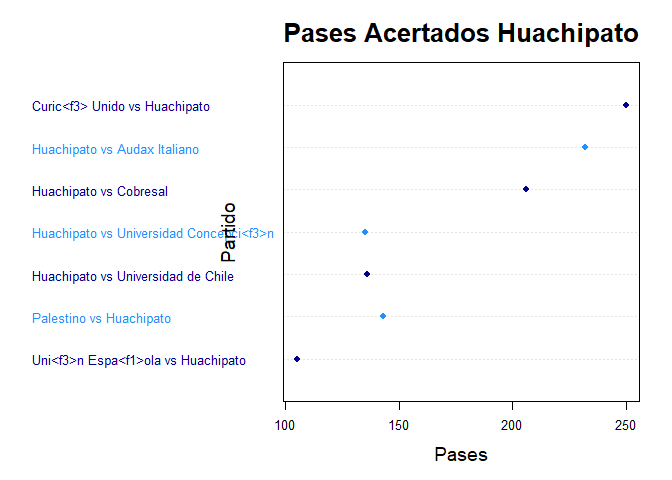
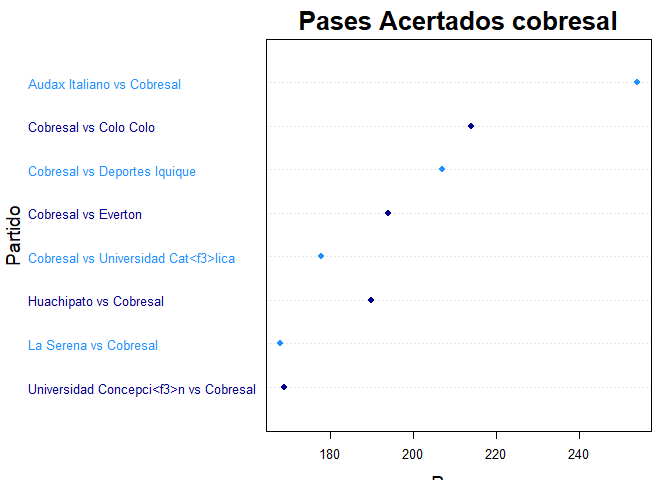
actividad 2 ready

diff --git a/Actividad_A2/dummy.md b/Actividad_A2/dummy.md
@@ -1,7 +1,7 @@
 Ayudantia 2
 ================
 
-## Actividad Ayudantia 2: Javiera Bustos
+## Actividad Ayudantia 2
 
 Replicar lo realizado en la ayudantia (analisis exploratorio de los
 datos, limpieza, sub dataframes, filtro y graficar ), pueden elegir otro
@@ -13,15 +13,18 @@ equipo para que puedan explorar otros datos
 library(quanteda)
 ```
 
-    ## Warning: package 'quanteda' was built under R version 4.0.5
+    ## Package version: 2.1.2
 
-    ## Package version: 3.0.0
-    ## Unicode version: 10.0
-    ## ICU version: 61.1
-
-    ## Parallel computing: 4 of 4 threads used.
+    ## Parallel computing: 2 of 4 threads used.
 
     ## See https://quanteda.io for tutorials and examples.
+
+    ## 
+    ## Attaching package: 'quanteda'
+
+    ## The following object is masked from 'package:utils':
+    ## 
+    ##     View
 
 ``` r
 library(dplyr)
@@ -42,14 +45,14 @@ library(dplyr)
 library(tidyverse)
 ```
 
-    ## -- Attaching packages --------------------------------------- tidyverse 1.3.0 --
+    ## -- Attaching packages ------------------------------------------------------------------------------------------------- tidyverse 1.3.0 --
 
-    ## v ggplot2 3.3.3     v purrr   0.3.4
-    ## v tibble  3.1.0     v stringr 1.4.0
-    ## v tidyr   1.1.3     v forcats 0.5.1
-    ## v readr   1.4.0
+    ## v ggplot2 3.3.0     v purrr   0.3.3
+    ## v tibble  3.0.0     v stringr 1.4.0
+    ## v tidyr   1.0.2     v forcats 0.5.0
+    ## v readr   1.3.1
 
-    ## -- Conflicts ------------------------------------------ tidyverse_conflicts() --
+    ## -- Conflicts ---------------------------------------------------------------------------------------------------- tidyverse_conflicts() --
     ## x dplyr::filter() masks stats::filter()
     ## x dplyr::lag()    masks stats::lag()
 
@@ -57,12 +60,11 @@ library(tidyverse)
 library(utf8)
 library(ggplot2)
 
-setwd("C:/Users/Javiera/Desktop/RAMOS 2021/Minería/proyectos_mineria/Actividad_A2")
+setwd("D:/Users/Italo/Documents/Italo Felipe/UAI/Semestre 11/Ayudantia Mineria de Datos/Ayudantia_DataMining01_2021/Ayudantia 2")
 primer_tiempo2020 <- read_csv("Primer_Tiempo2020.csv", col_names = TRUE)
 ```
 
-    ## 
-    ## -- Column specification --------------------------------------------------------
+    ## Parsed with column specification:
     ## cols(
     ##   .default = col_double(),
     ##   torneo = col_character(),
@@ -73,9 +75,12 @@ primer_tiempo2020 <- read_csv("Primer_Tiempo2020.csv", col_names = TRUE)
     ##   local = col_logical(),
     ##   tiempo = col_character()
     ## )
-    ## i Use `spec()` for the full column specifications.
+
+    ## See spec(...) for full column specifications.
 
 ``` r
+#str(primer_tiempo2020)
+#attach(primer_tiempo2020)
 summary(primer_tiempo2020)
 ```
 
@@ -178,18 +183,18 @@ primer_tiempo2020
 ```
 
     ## # A tibble: 130 x 49
-    ##    torneo   equipo   id_partido  partido   fasepartido local tiempo accuratePass
-    ##    <chr>    <chr>    <chr>       <chr>     <chr>       <lgl> <chr>         <dbl>
-    ##  1 Primera~ Uni<f3>~ 6xszsf73jq~ Universi~ Regular Se~ FALSE fh              235
-    ##  2 Primera~ Univers~ 6xszsf73jq~ Universi~ Regular Se~ TRUE  fh              199
-    ##  3 Primera~ Everton  e88gat05jr~ Universi~ Regular Se~ FALSE fh              157
-    ##  4 Primera~ Univers~ e88gat05jr~ Universi~ Regular Se~ TRUE  fh              192
-    ##  5 Primera~ Curic<f~ 35ijq76er8~ Universi~ Regular Se~ FALSE fh              142
-    ##  6 Primera~ Univers~ 35ijq76er8~ Universi~ Regular Se~ TRUE  fh              168
-    ##  7 Primera~ Coquimb~ 9o9ji2f68p~ Universi~ Regular Se~ FALSE fh              190
-    ##  8 Primera~ Univers~ 9o9ji2f68p~ Universi~ Regular Se~ TRUE  fh              200
-    ##  9 Primera~ Santiag~ 357wqv3701~ Universi~ Regular Se~ FALSE fh              156
-    ## 10 Primera~ Univers~ 357wqv3701~ Universi~ Regular Se~ TRUE  fh               92
+    ##    torneo equipo id_partido partido fasepartido local tiempo accuratePass
+    ##    <chr>  <chr>  <chr>      <chr>   <chr>       <lgl> <chr>         <dbl>
+    ##  1 Prime~ Uni<f~ 6xszsf73j~ Univer~ Regular Se~ FALSE fh              235
+    ##  2 Prime~ Unive~ 6xszsf73j~ Univer~ Regular Se~ TRUE  fh              199
+    ##  3 Prime~ Evert~ e88gat05j~ Univer~ Regular Se~ FALSE fh              157
+    ##  4 Prime~ Unive~ e88gat05j~ Univer~ Regular Se~ TRUE  fh              192
+    ##  5 Prime~ Curic~ 35ijq76er~ Univer~ Regular Se~ FALSE fh              142
+    ##  6 Prime~ Unive~ 35ijq76er~ Univer~ Regular Se~ TRUE  fh              168
+    ##  7 Prime~ Coqui~ 9o9ji2f68~ Univer~ Regular Se~ FALSE fh              190
+    ##  8 Prime~ Unive~ 9o9ji2f68~ Univer~ Regular Se~ TRUE  fh              200
+    ##  9 Prime~ Santi~ 357wqv370~ Univer~ Regular Se~ FALSE fh              156
+    ## 10 Prime~ Unive~ 357wqv370~ Univer~ Regular Se~ TRUE  fh               92
     ## # ... with 120 more rows, and 41 more variables: wonTackle <dbl>,
     ## #   lostCorners <dbl>, goalsConceded <dbl>, saves <dbl>,
     ## #   ontargetScoringAtt <dbl>, totalScoringAtt <dbl>, subsMade <dbl>,
@@ -211,18 +216,18 @@ primer_tiempo2020
 ```
 
     ## # A tibble: 130 x 43
-    ##    equipo    partido      accuratePass wonTackle lostCorners goalsConceded saves
-    ##    <chr>     <chr>               <dbl>     <dbl>       <dbl>         <dbl> <dbl>
-    ##  1 Uni<f3>n~ Universidad~          235         2           3             1     4
-    ##  2 Universi~ Universidad~          199         2           0             0     1
-    ##  3 Everton   Universidad~          157         7           6             0     3
-    ##  4 Universi~ Universidad~          192         4           1             0     2
-    ##  5 Curic<f3~ Universidad~          142         6           3             2     2
-    ##  6 Universi~ Universidad~          168         8           1             1     2
-    ##  7 Coquimbo~ Universidad~          190         3           0             0     2
-    ##  8 Universi~ Universidad~          200         5           0             0     0
-    ##  9 Santiago~ Universidad~          156         4           3             0     0
-    ## 10 Universi~ Universidad~           92         4           1             1     1
+    ##    equipo partido accuratePass wonTackle lostCorners goalsConceded saves
+    ##    <chr>  <chr>          <dbl>     <dbl>       <dbl>         <dbl> <dbl>
+    ##  1 Uni<f~ Univer~          235         2           3             1     4
+    ##  2 Unive~ Univer~          199         2           0             0     1
+    ##  3 Evert~ Univer~          157         7           6             0     3
+    ##  4 Unive~ Univer~          192         4           1             0     2
+    ##  5 Curic~ Univer~          142         6           3             2     2
+    ##  6 Unive~ Univer~          168         8           1             1     2
+    ##  7 Coqui~ Univer~          190         3           0             0     2
+    ##  8 Unive~ Univer~          200         5           0             0     0
+    ##  9 Santi~ Univer~          156         4           3             0     0
+    ## 10 Unive~ Univer~           92         4           1             1     1
     ## # ... with 120 more rows, and 36 more variables: ontargetScoringAtt <dbl>,
     ## #   totalScoringAtt <dbl>, subsMade <dbl>, totalThrows <dbl>,
     ## #   totalYellowCard <dbl>, goalKicks <dbl>, totalPass <dbl>, fkFoulWon <dbl>,
@@ -244,18 +249,18 @@ fh2020
 ```
 
     ## # A tibble: 130 x 43
-    ##    equipo    partido      accuratePass wonTackle lostCorners goalsConceded saves
-    ##    <chr>     <chr>               <dbl>     <dbl>       <dbl>         <dbl> <dbl>
-    ##  1 Universi~ Universidad~          269         2           3             0     2
-    ##  2 Deportiv~ Deportivo A~          253        11           1             1     1
-    ##  3 Uni<f3>n~ Uni<f3>n La~          252         6           3             1     3
-    ##  4 Curic<f3~ Universidad~          245         5           2             0     2
-    ##  5 Uni<f3>n~ Uni<f3>n La~          237         5           2             0     0
-    ##  6 Uni<f3>n~ Universidad~          235         2           3             1     4
-    ##  7 Colo Colo Colo Colo v~          231         4           0             0     0
-    ##  8 Uni<f3>n~ Uni<f3>n Es~          224         7           0             1     0
-    ##  9 Audax It~ Audax Itali~          220         2           1             1     1
-    ## 10 Audax It~ Audax Itali~          219         6           1             0     0
+    ##    equipo partido accuratePass wonTackle lostCorners goalsConceded saves
+    ##    <chr>  <chr>          <dbl>     <dbl>       <dbl>         <dbl> <dbl>
+    ##  1 Unive~ Univer~          269         2           3             0     2
+    ##  2 Depor~ Deport~          253        11           1             1     1
+    ##  3 Uni<f~ Uni<f3~          252         6           3             1     3
+    ##  4 Curic~ Univer~          245         5           2             0     2
+    ##  5 Uni<f~ Uni<f3~          237         5           2             0     0
+    ##  6 Uni<f~ Univer~          235         2           3             1     4
+    ##  7 Colo ~ Colo C~          231         4           0             0     0
+    ##  8 Uni<f~ Uni<f3~          224         7           0             1     0
+    ##  9 Audax~ Audax ~          220         2           1             1     1
+    ## 10 Audax~ Audax ~          219         6           1             0     0
     ## # ... with 120 more rows, and 36 more variables: ontargetScoringAtt <dbl>,
     ## #   totalScoringAtt <dbl>, subsMade <dbl>, totalThrows <dbl>,
     ## #   totalYellowCard <dbl>, goalKicks <dbl>, totalPass <dbl>, fkFoulWon <dbl>,
@@ -302,88 +307,100 @@ fh2020_tiros
 ```
 
     ## # A tibble: 130 x 8
-    ##    equipo   partido      ontargetScoring~ totalScoringAtt blockedScoringA~ goals
-    ##    <chr>    <chr>                   <dbl>           <dbl>            <dbl> <dbl>
-    ##  1 Uni<f3>~ Uni<f3>n Es~                4               5                0     3
-    ##  2 Univers~ Universidad~                3               8                2     2
-    ##  3 Colo Co~ Colo Colo v~                4              10                2     2
-    ##  4 Audax I~ Audax Itali~                3               9                2     2
-    ##  5 Univers~ Deportivo A~                5               9                2     2
-    ##  6 Univers~ Universidad~                4               7                1     2
-    ##  7 Deporti~ Deportivo A~                5              14                4     2
-    ##  8 Uni<f3>~ O'Higgins v~                3               4                1     2
-    ##  9 Deporte~ Deportes Iq~                2               7                2     2
-    ## 10 La Sere~ La Serena v~                4               7                1     2
+    ##    equipo partido ontargetScoring~ totalScoringAtt blockedScoringA~ goals
+    ##    <chr>  <chr>              <dbl>           <dbl>            <dbl> <dbl>
+    ##  1 Uni<f~ Uni<f3~                4               5                0     3
+    ##  2 Unive~ Univer~                3               8                2     2
+    ##  3 Colo ~ Colo C~                4              10                2     2
+    ##  4 Audax~ Audax ~                3               9                2     2
+    ##  5 Unive~ Deport~                5               9                2     2
+    ##  6 Unive~ Univer~                4               7                1     2
+    ##  7 Depor~ Deport~                5              14                4     2
+    ##  8 Uni<f~ O'Higg~                3               4                1     2
+    ##  9 Depor~ Deport~                2               7                2     2
+    ## 10 La Se~ La Ser~                4               7                1     2
     ## # ... with 120 more rows, and 2 more variables: shotOffTarget <dbl>,
     ## #   precision_tiros <dbl>
 
 ## Filtrar Datos
 
 ``` r
-cobresal <- filter(primer_tiempo2020, equipo == "Cobresal")
-cobresal_tiros <- filter(fh2020_tiros, equipo == "Cobresal")
-cobresal_pases <- filter(fh2020_pases, equipo == "Cobresal")
+huachipato <- filter(primer_tiempo2020, equipo == "Huachipato")
+huachipato_tiros <- filter(fh2020_tiros, equipo == "Huachipato")
+huachipato_pases <- filter(fh2020_pases, equipo == "Huachipato")
 ```
 
 ## Agregar Promedio/Suma Total/Min/…
 
 ``` r
-cobresal_pases <- cobresal_pases[,!(colnames(cobresal_pases) %in% c("equipo"))] 
+huachipato_pases <- huachipato_pases[,!(colnames(huachipato_pases) %in% c("equipo"))] 
 
-Promedios_Pas <- c("Promedio Pases",mean(cobresal_pases$accuratePass),mean(cobresal_pases$totalPass),mean(cobresal_pases$precision_pases))
-cobresal_pases <- rbind(cobresal_pases, Promedios_Pas)
+Promedios_Pas <- c("Promedio Pases",mean(huachipato_pases$accuratePass),mean(huachipato_pases$totalPass),mean(huachipato_pases$precision_pases))
+huachipato_pases <- rbind(huachipato_pases, Promedios_Pas)
 
-Max_Pas <- c("Max Pases",max(cobresal_pases$accuratePass),max(cobresal_pases$totalPass),max(cobresal_pases$precision_pases))
-cobresal_pases <- rbind(cobresal_pases, Max_Pas)
+Max_Pas <- c("Max Pases",max(huachipato_pases$accuratePass),max(huachipato_pases$totalPass),max(huachipato_pases$precision_pases))
+huachipato_pases <- rbind(huachipato_pases, Max_Pas)
 
-Min_Pas <- c("Min Pases",min(cobresal_pases$accuratePass),min(cobresal_pases$totalPass),min(cobresal_pases$precision_pases))
-cobresal_pases <- rbind(cobresal_pases, Min_Pas)
+Min_Pas <- c("Min Pases",min(huachipato_pases$accuratePass),min(huachipato_pases$totalPass),min(huachipato_pases$precision_pases))
+huachipato_pases <- rbind(huachipato_pases, Min_Pas)
 
-cobresal_pases
+huachipato_pases
 ```
 
-    ## # A tibble: 11 x 4
-    ##    partido                               accuratePass totalPass precision_pases 
-    ##    <chr>                                 <chr>        <chr>     <chr>           
-    ##  1 Cobresal vs Deportes Iquique          217          254       85.4330708661417
-    ##  2 Cobresal vs Everton                   179          214       83.6448598130841
-    ##  3 Huachipato vs Cobresal                168          207       81.1594202898551
-    ##  4 Cobresal vs Colo Colo                 134          168       79.7619047619048
-    ##  5 Audax Italiano vs Cobresal            141          178       79.2134831460674
-    ##  6 Cobresal vs Universidad Cat<f3>lica   147          194       75.7731958762887
-    ##  7 Universidad Concepci<f3>n vs Cobresal 140          190       73.6842105263158
-    ##  8 La Serena vs Cobresal                 124          169       73.3727810650888
-    ##  9 Promedio Pases                        156.25       196.75    79.0053657930933
-    ## 10 Max Pases                             217          254       85.4330708661417
-    ## 11 Min Pases                             124          168       73.3727810650888
+    ## # A tibble: 10 x 4
+    ##    partido                        accuratePass    totalPass      precision_pases
+    ##    <chr>                          <chr>           <chr>          <chr>          
+    ##  1 Huachipato vs Universidad Con~ 208             250            83.2           
+    ##  2 Huachipato vs Cobresal         193             232            83.18965517241~
+    ##  3 Palestino vs Huachipato        152             206            73.78640776699~
+    ##  4 Huachipato vs Universidad de ~ 97              135            71.85185185185~
+    ##  5 Uni<f3>n Espa<f1>ola vs Huach~ 71              105            67.61904761904~
+    ##  6 Huachipato vs Audax Italiano   89              136            65.44117647058~
+    ##  7 Curic<f3> Unido vs Huachipato  84              143            58.74125874125~
+    ##  8 Promedio Pases                 127.7142857142~ 172.428571428~ 71.97562823173~
+    ##  9 Max Pases                      97              250            83.2           
+    ## 10 Min Pases                      127.7142857142~ 105            58.74125874125~
 
 ## Graficos
 
 ``` r
-pases_cobresal <- cobresal$accuratePass
-cobresal2 <- cobresal[order(cobresal$accuratePass, decreasing = FALSE),]
+pases_hua <- huachipato$accuratePass
+huachipato2 <- huachipato[order(huachipato$accuratePass, decreasing = FALSE),]
 
+#dotchart(huachipato$totalPass, labels = huachipato$partido, cex=0.5, xlab = "Pases", ylab = "Partido")
 
-
-dotchart(cobresal$totalPass, labels = utf8_encode(cobresal$partido), cex=0.5, xlab = "Pases", ylab = "Partido")
+dotchart(huachipato$totalPass, labels = utf8_encode(huachipato$partido), cex=0.5, xlab = "Pases", ylab = "Partido")
 ```
 
 ![](Ayudantia-2_files/figure-gfm/unnamed-chunk-6-1.png)<!-- -->
 
 ``` r
-dotchart(cobresal$accuratePass, labels = utf8_encode(cobresal$partido), cex=0.5, xlab = "Pases", ylab = "Partido")
+dotchart(huachipato$accuratePass, labels = utf8_encode(huachipato$partido), cex=0.5, xlab = "Pases", ylab = "Partido")
 ```
 
 ![](Ayudantia-2_files/figure-gfm/unnamed-chunk-6-2.png)<!-- -->
 
 ``` r
-dotchart(cobresal2$totalPass, labels = utf8_encode(cobresal$partido), cex=0.5, xlab = "Pases", ylab = "Partido")
+dotchart(huachipato2$totalPass, labels = utf8_encode(huachipato$partido), cex=0.5, xlab = "Pases", ylab = "Partido")
 ```
 
 ![](Ayudantia-2_files/figure-gfm/unnamed-chunk-6-3.png)<!-- -->
 
 ``` r
-dotchart(cobresal2$totalPass, labels = utf8_encode(cobresal$partido), main="Pases Acertados cobresal", pch = 16, col=c("darkblue","dodgerblue"),lcolor="gray90", cex=0.8, xlab = "Pases", ylab = "Partido", cex.main=2,cex.lab=1.5)
+dotchart(huachipato2$totalPass, labels = utf8_encode(huachipato$partido), main="Pases Acertados Huachipato", pch = 16, col=c("darkblue","dodgerblue"),lcolor="gray90", cex=0.8, xlab = "Pases", ylab = "Partido", cex.main=2,cex.lab=1.5)
 ```
 
 ![](Ayudantia-2_files/figure-gfm/unnamed-chunk-6-4.png)<!-- -->
+
+## Analisis de Texto
+
+``` r
+texto <- primer_tiempo2020$partido
+texto <- char_tolower(texto)
+texto <- iconv(texto, to = "ASCII//TRANSLIT")
+
+a <- dfm(texto, remove = c(stopwords("es"), "vs", "Universidad"))
+dim(a)
+```
+
+    ## [1] 130  31
